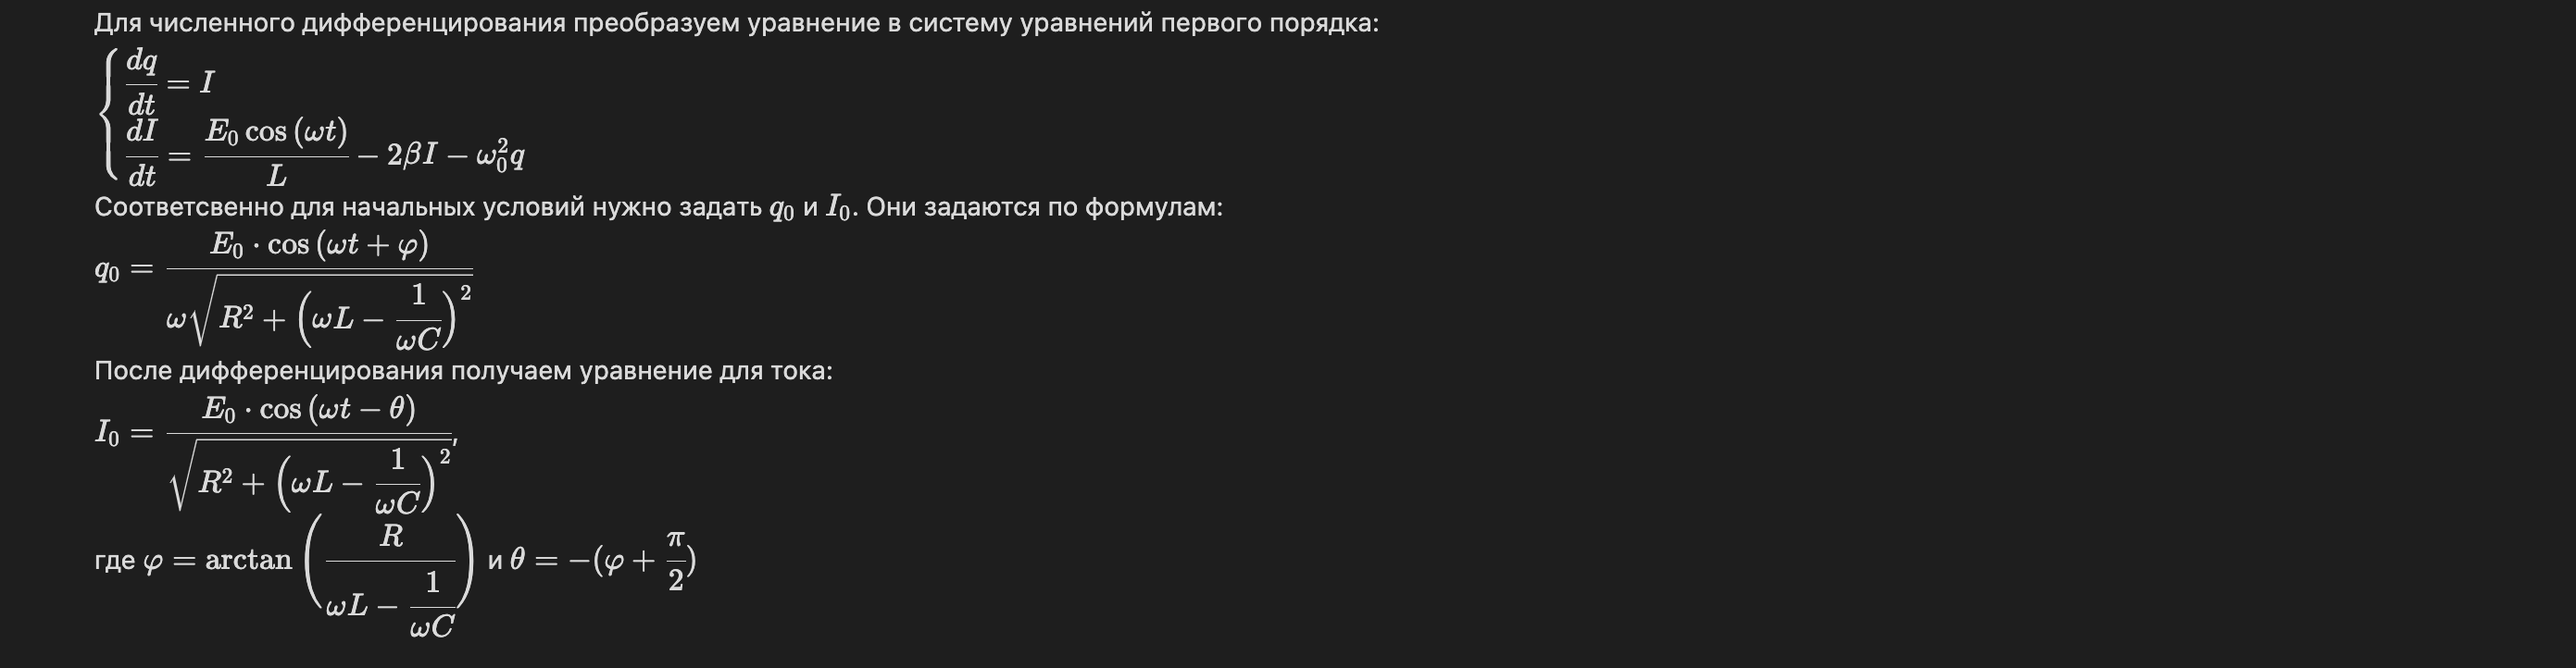
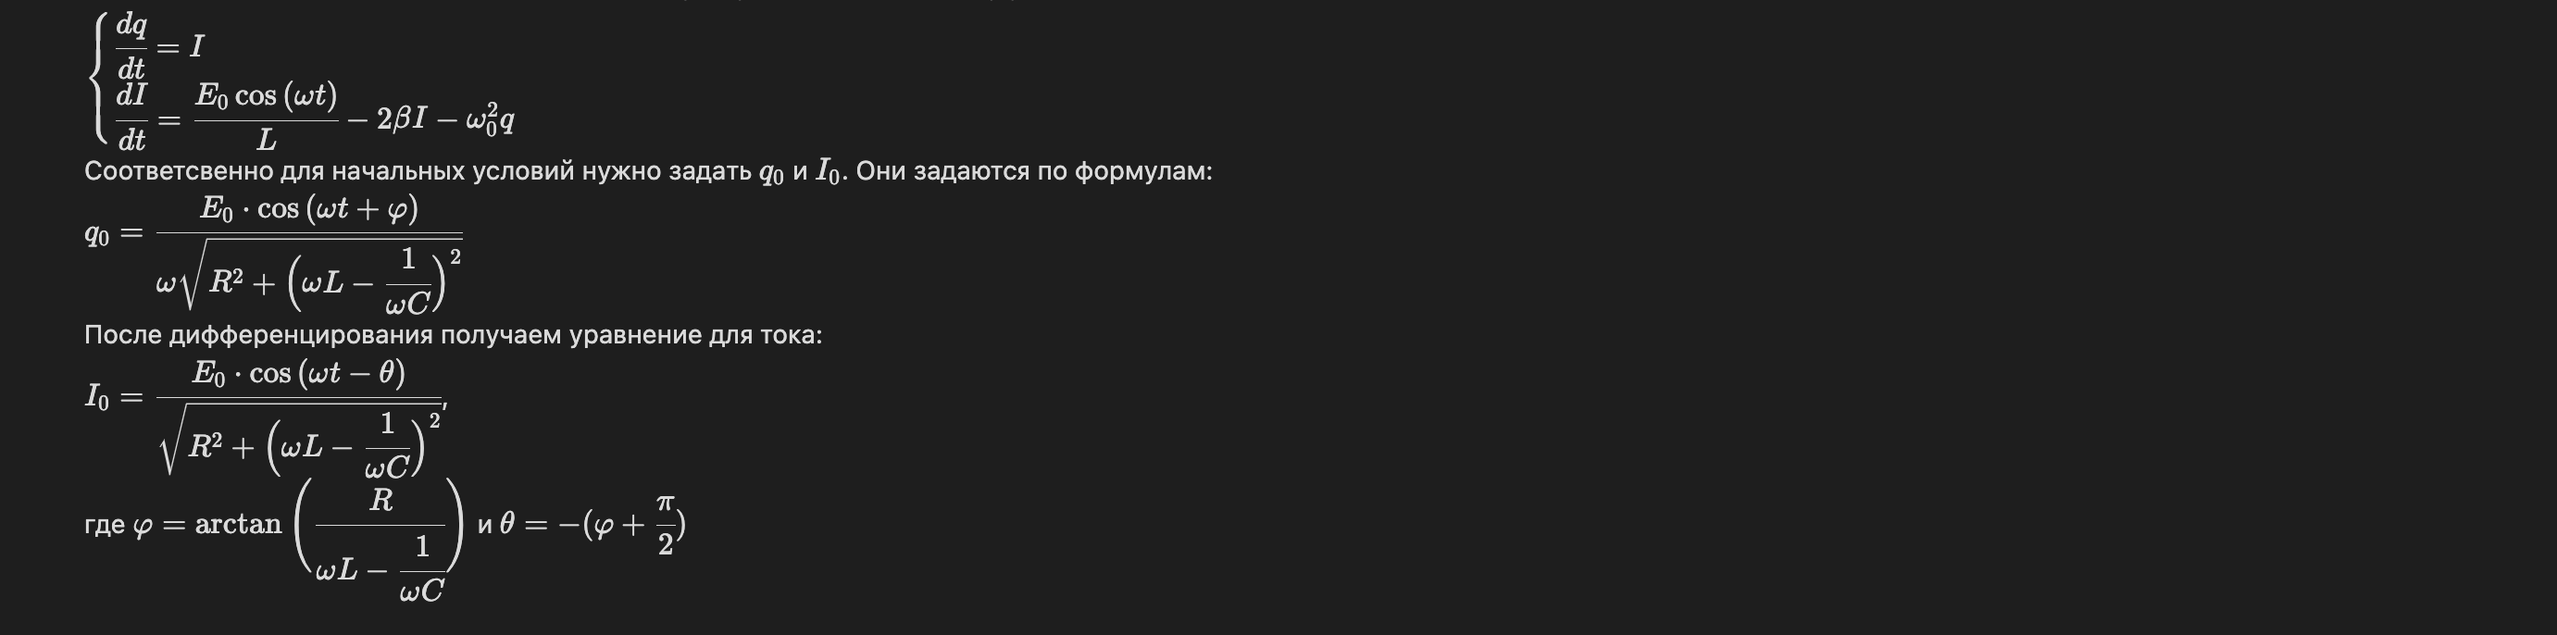
main

Changed region(s): [[0.0311, 0.0, 0.5293, 0.949]]

diff --git a/README.md b/README.md
@@ -14,11 +14,13 @@ $\\ \cfrac{d^2q}{dt^2} + 2\beta\cfrac{dq}{dt} + \omega_{0}^{2}q = \cfrac{E_{0}}{
 
 ![image.png](images/image.png) 
 
-Соответсвенно для начальных условий нужно задать $q_{0}$ и $I_{0}$. Они задаются по формулам:$\\$
-$q_{0} = \cfrac{E_{0} \cdot \cos{(\omega t + \varphi)}}{\omega\sqrt{R^{2} + \Big(\omega L - \cfrac{1}{\omega C}\Big)^{2}}}$ $\\$
-После дифференцирования получаем уравнение для тока:$\\$
-$I_{0} = \cfrac{E_{0} \cdot \cos{(\omega t - \theta)}}{\sqrt{R^{2} + \Big(\omega L - \cfrac{1}{\omega C}\Big)^{2}}}$, $\\$
- где $\varphi = \arctan\Bigg(\cfrac{R}{\omega L - \cfrac{1}{\omega C}}\Bigg)$ и $\theta = -(\varphi + \cfrac{\pi}{2})\\$
+Соответсвенно для начальных условий нужно задать $q_{0}$ и $I_{0}$. Они задаются по формулам:
+
+![image1.png](images/image1.png) 
+
+После дифференцирования получаем уравнение для тока:
+
+![image2.png](images/image2.png) 
 
 ## Описание параллельной цепи
 Для параллельной RLC цепи было взято и преобразованно диффиринциальное уравнение 2 порядка:
@@ -26,18 +28,12 @@ $\\ \cfrac{d^2V}{dt^2} + \cfrac{1}{R} \cdot \cfrac{dV}{dt} + \cfrac{V}{L} = I_{0
 где V - напряжение, t - время, L - индуктивность, R - сопротивление, С - емксоть конденсатора.
 
 Для численного дифференцирования преобразуем уравнение в систему уравнений первого порядка:
-$\\
-  \begin{cases}
-    dV = \cfrac{dV}{dt}      \\
-    d^{2}Vd^{2}t = \cfrac{I_{0} \cos{(\omega t)}}{C} - (2\beta \cdot \cfrac{dV}{dt}) - (\omega_{0}^{2} \cdot V)  
-  \end{cases}
-\\$
-Соответсвенно для начальных условий нужно задать $V_{0}$ и $V/dt_{0}$. Они задаются по формулам:$\\$
-$V_{0} = \cfrac{I_{0} \cos{(\omega t + \varphi)}}{\omega \sqrt{R^{-2} + \bigg(\omega C - (\omega L)^{-1} \bigg)^{2}}}\\$
-После дифференцирования получаем:$\\$
-$dVdt_{0} = \cfrac{I_{0} \cos{(\omega t + \varphi)}}{\sqrt{R^{-2} + \bigg(\omega C - (\omega L)^{-1} \bigg)^{2}}},\\$ 
 
-где $\varphi = \arctan\Bigg(\cfrac{R}{\omega L} - \omega C R\Bigg)\\$
+![image3.png](images/image3.png) 
+
+Соответсвенно для начальных условий нужно задать $V_{0}$ и $V/dt_{0}$. Они задаются по формулам:
+
+![image4.png](images/image4.png) 
 
 К конечным результатам был применен шум, реализованный как случайное число в нормальном распределении c параметрами 0 и 0.5.
 
